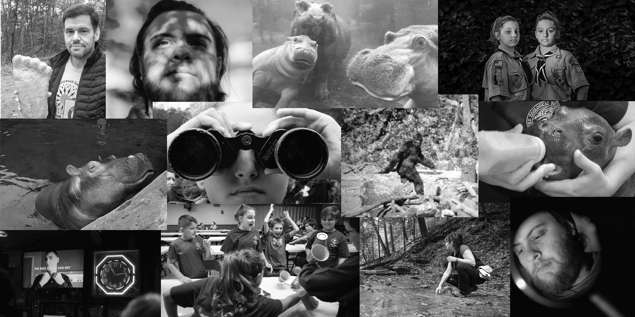
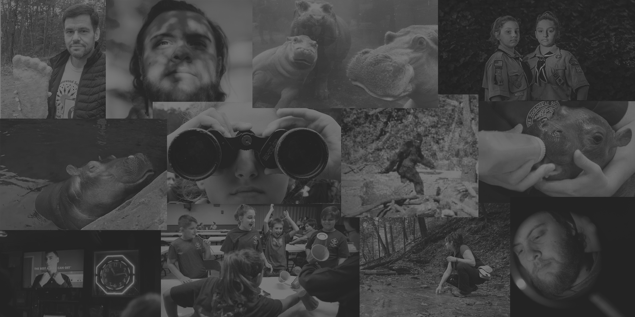
header

diff --git a/index.html b/index.html
@@ -23,7 +23,10 @@
 <body>
 
   <header>
-    <img src="img/SOA_2019_logo_transparent.png">
+    <div class="header-logo">
+      <img src="img/header_bw.png" alt="Snow" style="width:100%;">
+      <div class="centered"><img src="img/SOA_2019_logo_transparent.png"></div>
+    </div>
   </header>
 
   <!-- navigation -->
@@ -63,49 +66,49 @@
   <!-- our stories section -->
   <div class="container-fluid">
     <div class="row d-flex justify-content-center align-items-center">
-  <div class="cardsintro">
+      <div class="cardsintro">
 
-    <h1> Our Stories </h1>
+        <h1> Our Stories </h1>
 
+      </div>
+    </div>
   </div>
-</div>
-</div>
 
   <div class="container" id="stories">
     <div class="row d-flex justify-content-center align-items-start">
 
-    <div class="cards">
-      <a class="cardLink remove-dec" href="http://2019.soulofathens.com/its-just-scouting">
-        <div class="card-item">
-          <div class="card-image">
-            <img src="img/Rogers_Selects022_cropped.jpeg" width="100%">
+      <div class="cards">
+        <a class="cardLink remove-dec" href="http://2019.soulofathens.com/its-just-scouting">
+          <div class="card-item">
+            <div class="card-image">
+              <img src="img/Rogers_Selects022_cropped.jpeg" width="100%">
+            </div>
+            <div class="card-info">
+              <h2 class="card-title">It's Just Scouting</h2>
+              <p class="card-intro">Girls are now allowed to join both the Cub Scouts and Scouts BSA programs as of February 2019. Although this decision was met with criticism, twins Mavery and Adele are excited to continue their lifelong journey in scouting.</p>
+            </div>
           </div>
-          <div class="card-info">
-            <h2 class="card-title">It's Just Scouting</h2>
-            <p class="card-intro">Girls are now allowed to join both the Cub Scouts and Scouts BSA programs as of February 2019. Although this decision was met with criticism, twins Mavery and Adele are excited to continue their lifelong journey in scouting.</p>
+        </a>
+      </div>
+
+
+
+      <div class="cards">
+        <a class="cardLink remove-dec" href="http://2019.soulofathens.com/stoic">
+          <div class="card-item">
+            <div class="card-image">
+              <img src="img/stoic-crop.png" width="100%">
+            </div>
+            <div class="card-info">
+              <h2 class="card-title">Raised to be Stoic</h2>
+              <p class="card-intro">Forty years of research on traditional masculinity ideology provides evidence that cultural norms surrounding men's behaviors contribute to their mental health struggles. Evan Phillips' story sheds light on his experience with this.</p>
+            </div>
           </div>
-        </div>
-      </a>
+        </a>
+      </div>
     </div>
 
-
-
-    <div class="cards">
-      <a class="cardLink remove-dec" href="http://2019.soulofathens.com/stoic">
-        <div class="card-item">
-          <div class="card-image">
-            <img src="img/stoic-crop.png" width="100%">
-          </div>
-          <div class="card-info">
-            <h2 class="card-title">Raised to be Stoic</h2>
-            <p class="card-intro">Forty years of research on traditional masculinity ideology provides evidence that cultural norms surrounding men's behaviors contribute to their mental health struggles. Evan Phillips' story sheds light on his experience with this.</p>
-          </div>
-        </div>
-      </a>
-    </div>
-</div>
-
-  <div class="row d-flex justify-content-center align-items-start">
+    <div class="row d-flex justify-content-center align-items-start">
       <div class="cards">
         <a class="cardLink remove-dec" href="http://2019.soulofathens.com/sasquatch">
           <div class="card-item">
@@ -145,13 +148,13 @@
   <div class="container" id="teams">
     <div class="row justify-content-center align-items-center">
 
-          <h1>Meet the Teams</h1>
-      </div>
+      <h1>Meet the Teams</h1>
     </div>
-    <!--ending row-->
+  </div>
+  <!--ending row-->
 
 
-<div class="container">
+  <div class="container">
     <div class="row d-flex justify-content-center align-items-start">
       <div class="col-lg-3 col-md-5 col-sm-8">
         <img class="img-fluid" src="img/team-scouting.jpg">
@@ -256,8 +259,8 @@
   <script src="js/index.js"></script>
 
   <script src="https://code.jquery.com/jquery-3.2.1.slim.min.js" integrity="sha384-KJ3o2DKtIkvYIK3UENzmM7KCkRr/rE9/Qpg6aAZGJwFDMVNA/GpGFF93hXpG5KkN" crossorigin="anonymous"></script>
-<script src="https://cdnjs.cloudflare.com/ajax/libs/popper.js/1.12.9/umd/popper.min.js" integrity="sha384-ApNbgh9B+Y1QKtv3Rn7W3mgPxhU9K/ScQsAP7hUibX39j7fakFPskvXusvfa0b4Q" crossorigin="anonymous"></script>
-<script src="https://maxcdn.bootstrapcdn.com/bootstrap/4.0.0/js/bootstrap.min.js" integrity="sha384-JZR6Spejh4U02d8jOt6vLEHfe/JQGiRRSQQxSfFWpi1MquVdAyjUar5+76PVCmYl" crossorigin="anonymous"></script>
+  <script src="https://cdnjs.cloudflare.com/ajax/libs/popper.js/1.12.9/umd/popper.min.js" integrity="sha384-ApNbgh9B+Y1QKtv3Rn7W3mgPxhU9K/ScQsAP7hUibX39j7fakFPskvXusvfa0b4Q" crossorigin="anonymous"></script>
+  <script src="https://maxcdn.bootstrapcdn.com/bootstrap/4.0.0/js/bootstrap.min.js" integrity="sha384-JZR6Spejh4U02d8jOt6vLEHfe/JQGiRRSQQxSfFWpi1MquVdAyjUar5+76PVCmYl" crossorigin="anonymous"></script>
 
 
 </body>

diff --git a/css/style.css b/css/style.css
@@ -16,8 +16,24 @@ header {
 }
 
 header img {
-    width: 50%;
+    width: 90%;
 }
+
+
+
+.header-logo {
+  position: relative;
+  text-align: center;
+  color: white;
+}
+
+.centered {
+  position: absolute;
+  top: 50%;
+  left: 50%;
+  transform: translate(-50%, -50%);
+}
+
 
 a {
   text-decoration:none;
@@ -108,11 +124,6 @@ p {
   font-weight: 400;
   font-style: normal;
 }
-
-#nick-text{
-  text-align: center;
-}
-
 
 section {
   line-height: 1.5em;
